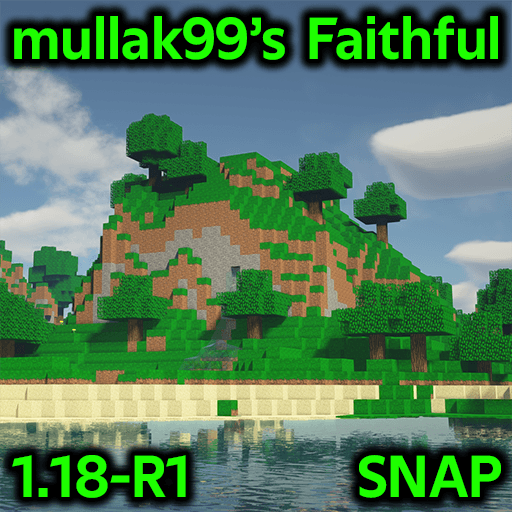
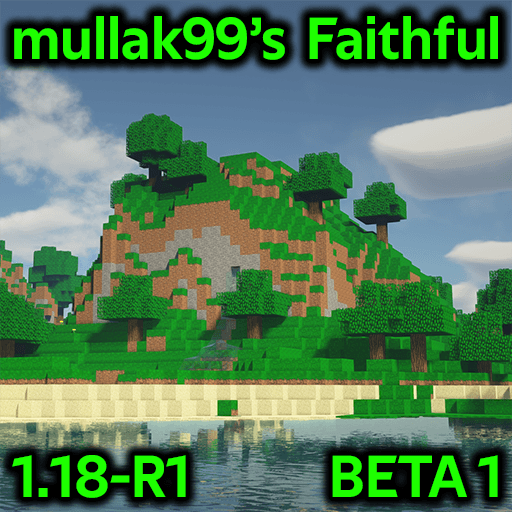
MC1.18_R1_BETA1
Changes from MC1.17-R6

Changed region(s): [[0.625, 0.8438, 1.0, 1.0]]

diff --git a/ChangeLog.md b/ChangeLog.md
@@ -1,7 +1,7 @@
 # Changelog
 All notable changes to mullak99's Faithful will be documented in this file.
 
-## [MC1.17-R6] - 2021-11-26
+## [Unreleased]
 ### Added
 - Added Otherside music disc
 - Added Illager font
@@ -12,7 +12,7 @@ All notable changes to mullak99's Faithful will be documented in this file.
 - Changed Minecart texture
 - Changed Parrot textures
 
-## [MC1.17-R6] - TBC
+## [MC1.17-R6] - 2021-11-26
 ### Added
 - Added Goat entity texture
 
